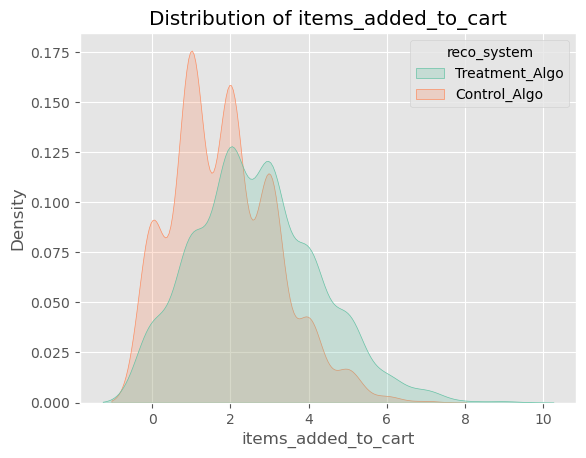
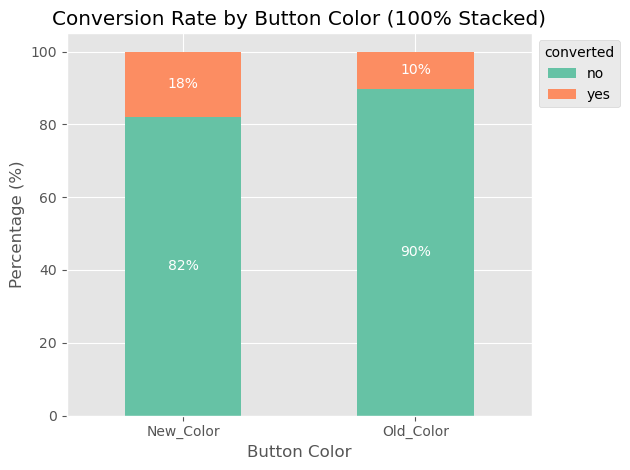
Update README with new image and remove outdated image; enhance project documentation

diff --git a/README.md b/README.md
@@ -47,7 +47,7 @@ Because this is an A/B testing project, my work focused on doing strong statisti
 * **Methodology:** For the button color test, I used a Z-Test to compare the conversion rates. I also measured the effect size (Cohen's h) to see if the change is actually useful for the business.
 * **Results:** The Z-test showed that the conversion rates for the two buttons are very different. The new color significantly improved the conversion rate, meaning it is a better choice for driving sales.
 
-![alt text](image/image-2.png)
+![alt text](image/image-1.png)
 
 ### 3. Marketing Campaign Effectiveness (A/B/n Testing)
 * **Methodology:** To compare many campaigns at the same time, I used a Chi-Square test. I measured the overall impact using Cramer's V and Cohen's W. I also did pairwise Z-tests to find out exactly which campaign was the best.